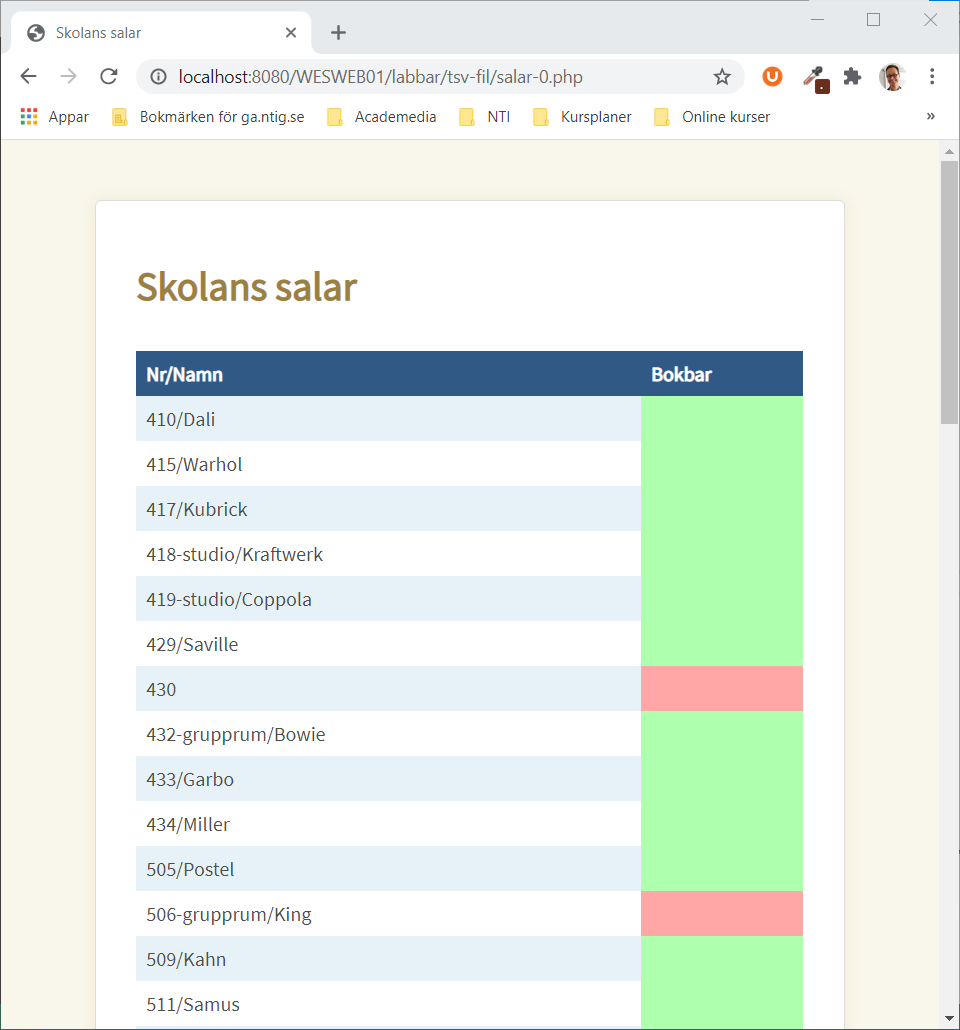
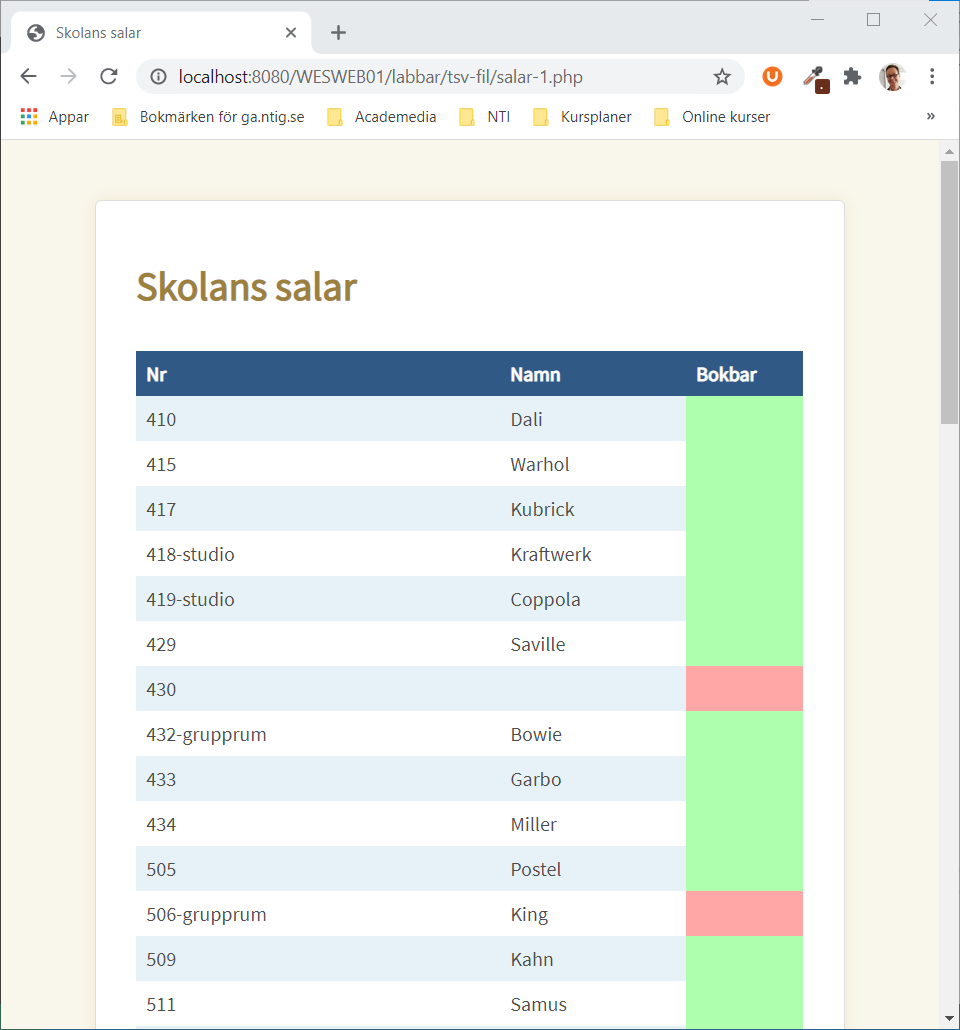
GitBook: [master] one page and 2 assets modified

diff --git a/kapitel-6/skriva-ut-tsv-fil.md b/kapitel-6/skriva-ut-tsv-fil.md
@@ -258,13 +258,15 @@ id	name	description	bookable	doublebook
 {% endtab %}
 {% endtabs %}
 
-![](../.gitbook/assets/image%20%2836%29.png)
+![](../.gitbook/assets/image%20%2837%29.png)
 
 ## Förbättringar
 
 ### Plocka ut rumsnr och rumsnamn
 
 * De flesta raderna innehåller salsnr och salsnamn tex **410/Dali**, dela upp så de visas i var sin kolumn i tabellen
+
+![](../.gitbook/assets/image%20%2836%29.png)
 
 ### Ange typ av rum
 
